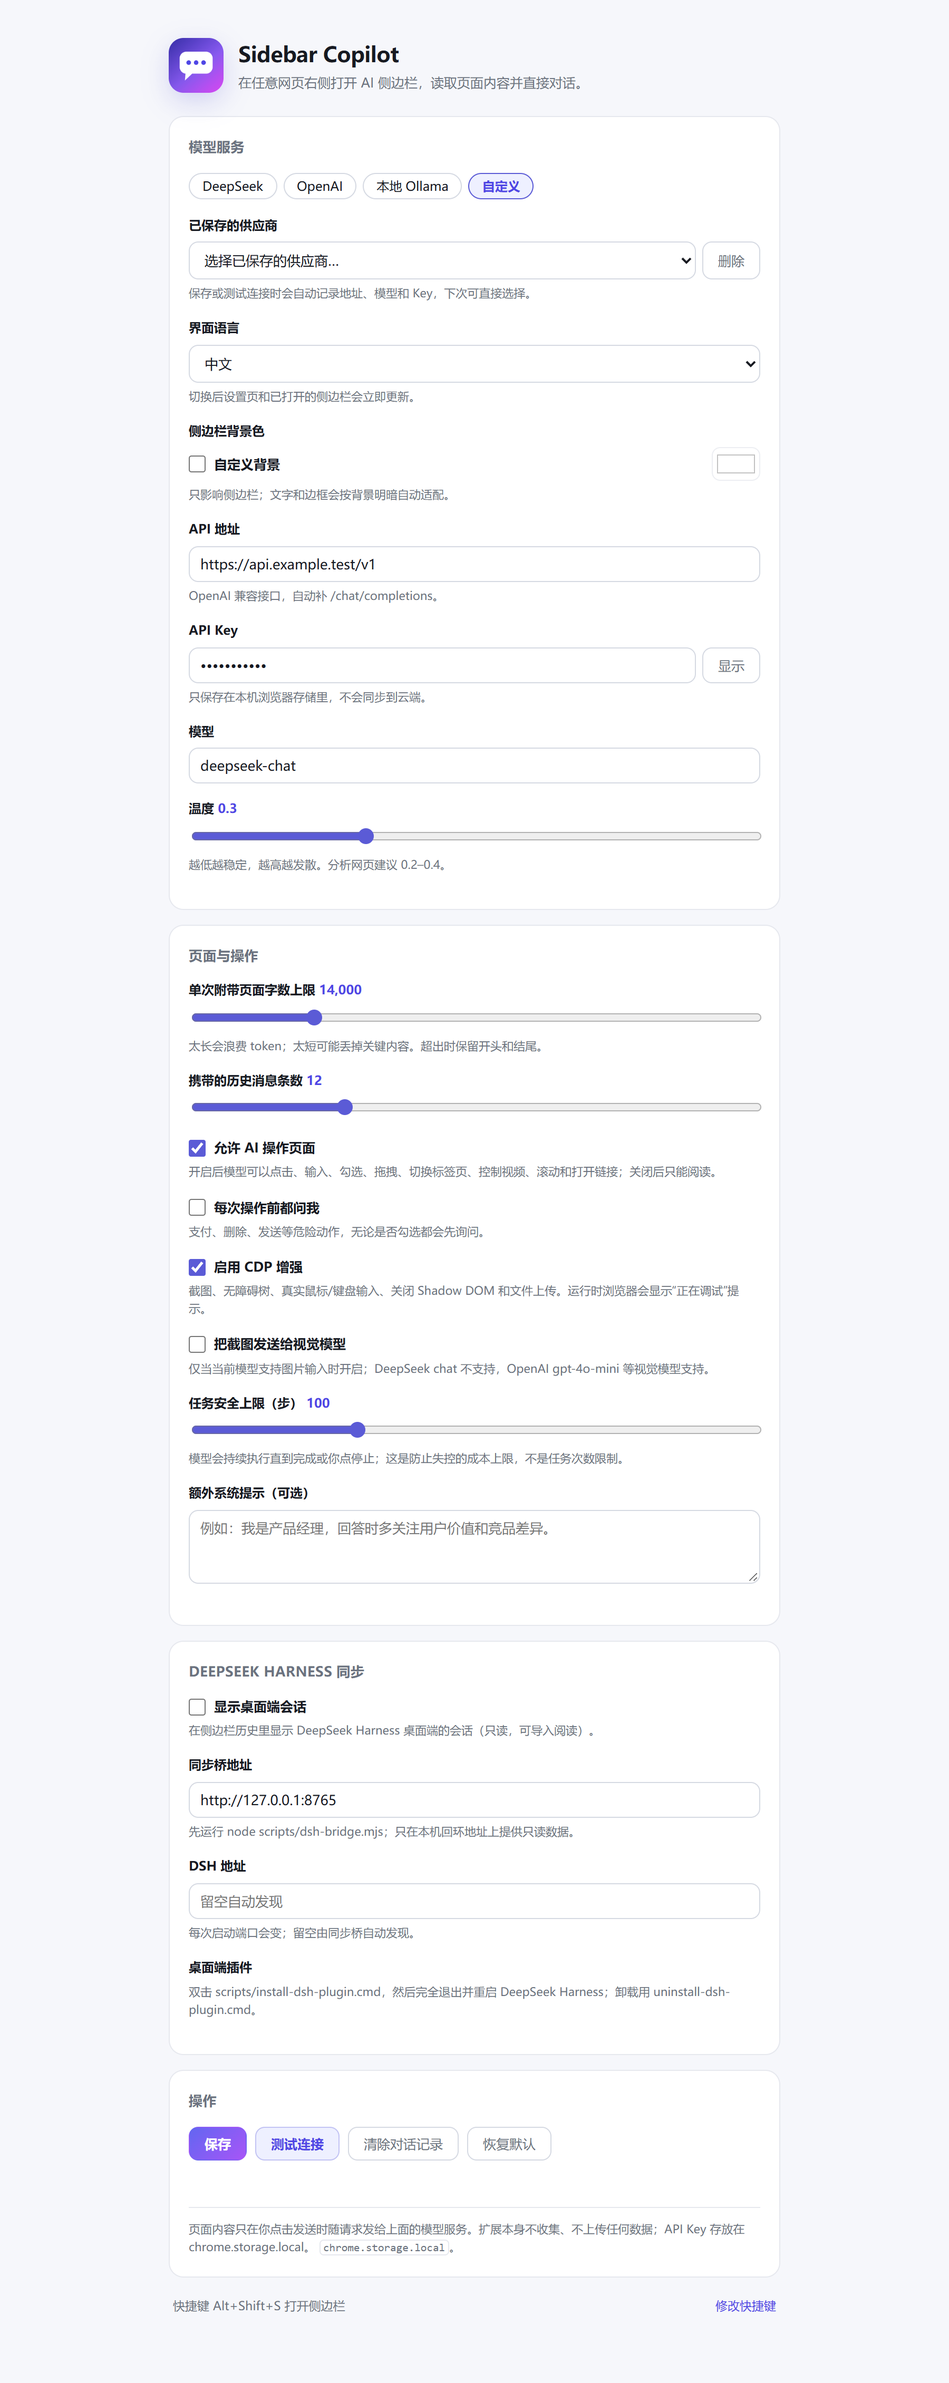
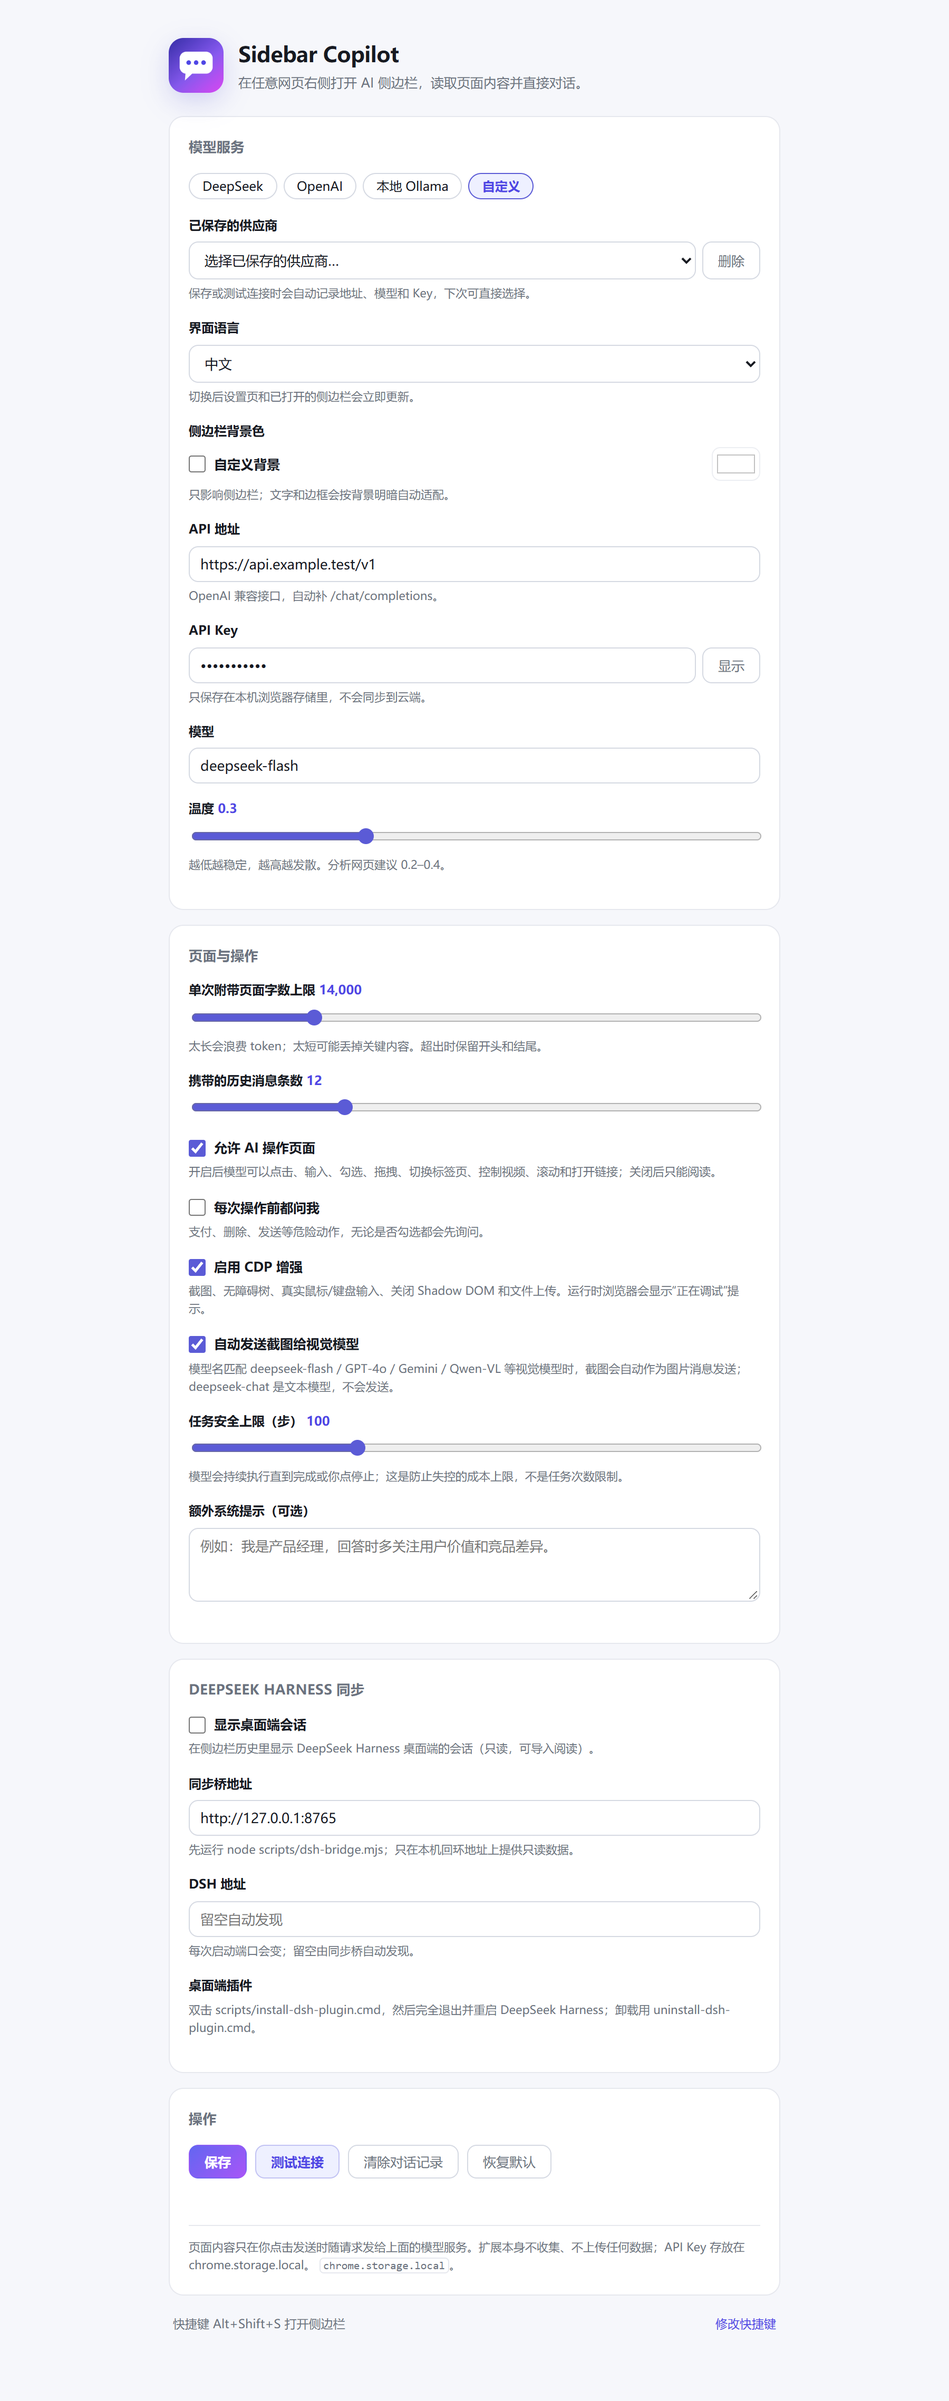
fix: send screenshots to deepseek-flash and vision models automatically

diff --git a/lib/i18n.js b/lib/i18n.js
@@ -152,8 +152,8 @@ const MESSAGES = {
     'options.confirmActionsHint': '支付、删除、发送等危险动作，无论是否勾选都会先询问。',
     'options.useCdp': '启用 CDP 增强',
     'options.useCdpHint': '截图、无障碍树、真实鼠标/键盘输入、关闭 Shadow DOM 和文件上传。运行时浏览器会显示“正在调试”提示。',
-    'options.sendScreenshot': '把截图发送给视觉模型',
-    'options.sendScreenshotHint': '仅当当前模型支持图片输入时开启；DeepSeek chat 不支持，OpenAI gpt-4o-mini 等视觉模型支持。',
+    'options.sendScreenshot': '自动发送截图给视觉模型',
+    'options.sendScreenshotHint': '模型名匹配 deepseek-flash / GPT-4o / Gemini / Qwen-VL 等视觉模型时，截图会自动作为图片消息发送；deepseek-chat 是文本模型，不会发送。',
     'options.maxSteps': '任务安全上限（步）',
     'options.maxStepsHint': '模型会持续执行直到完成或你点停止；这是防止失控的成本上限，不是任务次数限制。',
     'options.extra': '额外系统提示（可选）',
@@ -364,8 +364,8 @@ const MESSAGES = {
     'options.confirmActionsHint': 'Risky actions (pay, delete, send, etc.) always ask, even when this is off.',
     'options.useCdp': 'Enable CDP enhancements',
     'options.useCdpHint': 'Screenshot, accessibility tree, trusted mouse/keyboard input, closed shadow DOM, and file upload. Chromium shows a debugging infobar while active.',
-    'options.sendScreenshot': 'Send screenshots to a vision model',
-    'options.sendScreenshotHint': 'Enable only when the current model accepts image input; DeepSeek chat does not, while OpenAI gpt-4o-mini and other vision models do.',
+    'options.sendScreenshot': 'Send screenshots to vision models automatically',
+    'options.sendScreenshotHint': 'When the model name matches deepseek-flash, GPT-4o, Gemini, Qwen-VL, and similar vision models, the screenshot is sent as an image message. deepseek-chat is text-only and is skipped.',
     'options.maxSteps': 'Task safety cap (steps)',
     'options.maxStepsHint': 'The model keeps working until done or you press Stop; this cap only prevents runaway cost.',
     'options.extra': 'Extra system prompt (optional)',

diff --git a/panel.js b/panel.js
@@ -9,6 +9,7 @@ import { setLocale, applyI18n, t, getLocale } from './lib/i18n.js';
 import { applyPanelTheme } from './lib/theme.js';
 import { getSkill } from './lib/skills.js';
 import { makeRequestId, sameDocument } from './lib/protocol.js';
+import { supportsVision } from './lib/vision.js';
 import * as cdp from './lib/cdp.js';
 
 const $ = (id) => document.getElementById(id);
@@ -926,14 +927,16 @@ async function executeCdpTool(action) {
 
   if (action.name === 'capture_screenshot') {
     const screenshot = await cdp.captureScreenshot(tabId);
-    state.pendingScreenshot = state.settings.sendScreenshot ? screenshot : '';
+    const vision = Boolean(state.settings.sendScreenshot) && supportsVision(state.settings.model);
+    state.pendingScreenshot = vision ? screenshot : '';
     return {
       ok: true,
       screenshot,
       verified: true,
-      note: state.settings.sendScreenshot
+      vision,
+      note: vision
         ? 'Screenshot captured and queued for the next visual-model request.'
-        : 'Screenshot captured for visual inspection; it is shown in the side panel.',
+        : 'Screenshot captured for visual inspection; it is shown in the side panel. Use a vision model (for example deepseek-flash) and enable screenshot sending for visual understanding.',
     };
   }
 

diff --git a/options.html b/options.html
@@ -119,9 +119,9 @@
         <div class="field">
           <label class="check">
             <input id="sendScreenshot" type="checkbox" />
-            <span data-i18n="options.sendScreenshot">把截图发送给视觉模型</span>
+            <span data-i18n="options.sendScreenshot">自动发送截图给视觉模型</span>
           </label>
-          <small data-i18n="options.sendScreenshotHint">仅当当前模型支持图片输入时开启；DeepSeek chat 不支持，OpenAI gpt-4o-mini 等视觉模型支持。</small>
+          <small data-i18n="options.sendScreenshotHint">模型名匹配 deepseek-flash / GPT-4o / Gemini / Qwen-VL 等视觉模型时，截图会自动作为图片消息发送；deepseek-chat 是文本模型，不会发送。</small>
         </div>
 
         <div class="field">

diff --git a/tests/vision.test.js b/tests/vision.test.js
@@ -1,0 +1,19 @@
+import test from 'node:test';
+import assert from 'node:assert/strict';
+
+import { supportsVision } from '../lib/vision.js';
+
+test('detects image-capable model families', () => {
+  assert.equal(supportsVision('deepseek-flash'), true);
+  assert.equal(supportsVision('deepseek-v4-flash-vision-exp'), true);
+  assert.equal(supportsVision('gpt-4o-mini'), true);
+  assert.equal(supportsVision('gemini-2.5-pro'), true);
+  assert.equal(supportsVision('qwen2.5-vl-7b'), true);
+});
+
+test('keeps text-only and unknown models text-only', () => {
+  assert.equal(supportsVision('deepseek-chat'), false);
+  assert.equal(supportsVision('deepseek-reasoner'), false);
+  assert.equal(supportsVision(''), false);
+  assert.equal(supportsVision('my-local-chat'), false);
+});

diff --git a/lib/settings.js b/lib/settings.js
@@ -1,7 +1,7 @@
 export const DEFAULT_SETTINGS = Object.freeze({
   apiBase: 'https://api.deepseek.com/v1',
   apiKey: '',
-  model: 'deepseek-chat',
+  model: 'deepseek-flash',
   temperature: 0.3,
   maxPageChars: 14000,
   historyLimit: 12,
@@ -10,7 +10,7 @@ export const DEFAULT_SETTINGS = Object.freeze({
   allowPageActions: true,
   confirmActions: false,
   useCdp: true,
-  sendScreenshot: false,
+  sendScreenshot: true,
   maxAgentSteps: 100,
   locale: 'auto',
   panelBg: '',
@@ -26,7 +26,7 @@ export const PRESETS = [
     id: 'deepseek',
     label: 'DeepSeek',
     apiBase: 'https://api.deepseek.com/v1',
-    model: 'deepseek-chat',
+    model: 'deepseek-flash',
     keyUrl: 'https://platform.deepseek.com/api_keys',
   },
   {

diff --git a/lib/vision.js b/lib/vision.js
@@ -1,0 +1,25 @@
+/**
+ * Known image-capable model families for OpenAI-compatible endpoints.
+ * This is a convenience heuristic, not a provider capability API: a proxy can
+ * still reject images even when its model name looks multimodal.
+ */
+const VISION_PATTERNS = [
+  /deepseek-flash/i,
+  /deepseek.*vision/i,
+  /deepseek.*vl/i,
+  /gpt-4o/i,
+  /gpt-4\.1/i,
+  /gpt-5/i,
+  /claude-(3|4)/i,
+  /gemini/i,
+  /qwen.*vl/i,
+  /qwen.*vision/i,
+  /llava/i,
+  /vision/i,
+];
+
+export function supportsVision(model) {
+  const name = String(model || '').trim();
+  if (!name) return false;
+  return VISION_PATTERNS.some((pattern) => pattern.test(name));
+}

diff --git a/options.js b/options.js
@@ -74,7 +74,7 @@ function fillForm(values) {
   el.allowPageActions.checked = values.allowPageActions !== false;
   el.confirmActions.checked = Boolean(values.confirmActions);
   el.useCdp.checked = values.useCdp !== false;
-  el.sendScreenshot.checked = Boolean(values.sendScreenshot);
+  el.sendScreenshot.checked = values.sendScreenshot !== false;
   el.maxAgentSteps.value = String(values.maxAgentSteps ?? 100);
   el.maxStepsLabel.textContent = String(values.maxAgentSteps ?? 100);
   el.dshSync.checked = Boolean(values.dshSync);

diff --git a/tests/settings.test.js b/tests/settings.test.js
@@ -6,4 +6,6 @@ import { DEFAULT_SETTINGS } from '../lib/settings.js';
 test('defaults to a long task with a safety cap', () => {
   assert.equal(DEFAULT_SETTINGS.maxAgentSteps, 100);
   assert.equal(DEFAULT_SETTINGS.allowPageActions, true);
+  assert.equal(DEFAULT_SETTINGS.model, 'deepseek-flash');
+  assert.equal(DEFAULT_SETTINGS.sendScreenshot, true);
 });

diff --git a/content.js b/content.js
@@ -5,7 +5,7 @@
 (() => {
   'use strict';
 
-  const VERSION = '2.1.1';
+  const VERSION = '2.1.2';
   if (window.__SC_EXTRACT__ && window.__SC_EXTRACT_VERSION__ === VERSION) return;
   window.__SC_EXTRACT_VERSION__ = VERSION;
 

diff --git a/README.en.md b/README.en.md
@@ -17,7 +17,7 @@ An Edge / Chrome side panel extension that opens an AI chat panel beside any web
 - **Continuous tasks and skills**: no six-step stop; the model keeps going until done or you press Stop, with form / media / extract / navigate / verify / inspect playbooks.
 - **Verified actions**: input, select, range, media, and scroll read the state back; results are Done / Uncertain / Failed and bound to `tabId + documentId + snapshotId`.
 - **Optional CDP enhancements**: `chrome.debugger` provides screenshots, the full accessibility tree, trusted mouse/keyboard input, closed-shadow node clicks, and file inputs from absolute paths.
-- **Optional vision**: with “Send screenshots to a vision model” enabled, `capture_screenshot` attaches the image to the next request; DeepSeek chat does not accept images, while OpenAI gpt-4o-mini and other vision models do.
+- **Optional vision**: with “Send screenshots to vision models automatically” enabled, `capture_screenshot` attaches the image to the next request when the model is image-capable. DeepSeek `deepseek-flash` accepts images; `deepseek-chat` is text-only. See the [DeepSeek vision guide](https://api-docs.deepseek.com/guides/vision/).
 - **Two-way desktop sync**: list DeepSeek Harness sessions read-only; after installing the desktop plugin, write extension conversations as real DSH sessions visible on both sides.
 - **Conversation history**: every new chat is kept. The clock button lists them; switch, delete, or export to JSON on your computer. Auto-save can be turned off.
 - **Remembered providers**: saving or testing a connection remembers its URL, model, and key for the “Saved providers” dropdown; “Reset to defaults” never deletes your key.
@@ -54,7 +54,7 @@ Open Settings (the welcome page button, or right-click the extension icon → Op
 
 | Preset | API base | Default model | Key |
 | --- | --- | --- | --- |
-| DeepSeek | `https://api.deepseek.com/v1` | `deepseek-chat` | [platform.deepseek.com/api_keys](https://platform.deepseek.com/api_keys) |
+| DeepSeek | `https://api.deepseek.com/v1` | `deepseek-flash` | [platform.deepseek.com/api_keys](https://platform.deepseek.com/api_keys) |
 | OpenAI | `https://api.openai.com/v1` | `gpt-4o-mini` | [platform.openai.com/api-keys](https://platform.openai.com/api-keys) |
 | Local Ollama | `http://localhost:11434/v1` | `qwen2.5:7b` | not required |
 
@@ -161,7 +161,7 @@ With actions enabled, the model doesn't just tell you what to click — it execu
 | `hover` | Hovers to open menus or tooltips |
 | `tab_control` | Lists, opens, activates, reloads, goes back/forward, or closes tabs; closing the panel’s own tab is refused |
 | `skill` | Loads a playbook for form / media / extract / navigate / verify / inspect |
-| `capture_screenshot` | Captures the visible tab over CDP and shows it in the panel; optionally sends it to a vision model |
+| `capture_screenshot` | Captures the visible tab over CDP and shows it in the panel; vision models receive the image automatically |
 | `inspect_ax` | Reads the accessibility tree (iframes and closed shadow DOM included) and returns `backend_node_id` |
 | `cdp_click` / `cdp_type` / `cdp_key` | Trusted CDP mouse, text, and key input for controls that ignore synthetic events |
 | `cdp_upload` | Sets a file input from absolute paths you provide and confirm |
@@ -176,7 +176,7 @@ The current page is bound to `tabId + documentId + snapshotId`; after navigation
 
 When a task matches, the model calls `skill` for a step-by-step playbook (forms, media, extraction, tab navigation, verification, inspection); these are instructions, not hard-coded scripts.
 
-> Actions require function calling. DeepSeek `deepseek-chat` and OpenAI `gpt-4o-mini` support it; models without tool support only produce text suggestions.
+> Actions require function calling. DeepSeek `deepseek-flash` / `deepseek-chat` and OpenAI `gpt-4o-mini` support it; models without tool support only produce text suggestions.
 
 ![AI operating the page](docs/screenshots/panel-actions.png)
 
@@ -226,7 +226,7 @@ It returns real state (currentTime, duration, paused, volume, readyState), plus 
 - Custom dropdowns (`role=combobox`) take two steps (“click, then click the option”); native `<select>` works in one.
 - `ref`s expire when the page re-renders or navigates; the model re-runs `inspect_page`.
 - CDP enhancements must be enabled in Settings; Chromium shows a “started debugging” infobar while attached. Cross-origin iframes are supported at the accessibility-tree/coordinate level, not every iframe DOM query; file upload needs absolute paths.
-- To let the model see the screenshot, use a vision-capable model and enable “Send screenshots to a vision model”; DeepSeek chat is not a vision model.
+- To let the model see the screenshot, use an image-capable model (DeepSeek `deepseek-flash`, OpenAI gpt-4o, etc.) and keep “Send screenshots to vision models automatically” on; `deepseek-chat` is text-only.
 - Browser chrome (address bar, extension manager, PDF viewer) still cannot be operated; that is a Chromium permission boundary that CDP does not bypass.
 
 ## How it works
@@ -330,7 +330,7 @@ sidebar-copilot/
 
 **The model says it cannot read the page**: it's an internal page/PDF, or injection is blocked; try a regular page.
 
-**On a new tab it says “I have no browser control”**: `edge://newtab` is a browser-internal page that no extension can inject into. Open a real page (http/https) and refresh once; if it still happens, make sure the extension was reloaded to v2.1.1.
+**On a new tab it says “I have no browser control”**: `edge://newtab` is a browser-internal page that no extension can inject into. Open a real page (http/https) and refresh once; if it still happens, make sure the extension was reloaded to v2.1.2.
 
 **It can't see the video**: it truly cannot see pixels, but `control_media` can play/pause/seek/volume, and it can open captions, notes, or AI-summary panels and read the text. Describing the picture requires an image-capable model.
 

diff --git a/README.md b/README.md
@@ -17,7 +17,7 @@
 - **持续任务与技能**：不再 6 步就停，模型持续执行到完成或你点停止；内置 form / media / extract / navigate / verify / inspect 分步技能。
 - **动作可验证**：每次输入/选择/滑块/媒体/滚动都会读回实际状态，结果标为「完成 / 待确认 / 失败」；目标绑定 `tabId + documentId + snapshotId`。
 - **CDP 增强（可选）**：`chrome.debugger` 提供截图、完整无障碍树、真实鼠标/键盘输入、关闭 Shadow DOM 节点点击，以及按绝对路径设置文件输入。
-- **视觉截图（可选）**：开启「把截图发送给视觉模型」后，`capture_screenshot` 会把图片作为下一条消息发给支持图片输入的模型；DeepSeek chat 不支持，OpenAI gpt-4o-mini 等视觉模型支持。
+- **视觉截图（可选）**：开启「自动发送截图给视觉模型」后，`capture_screenshot` 会把图片作为下一条消息发给支持图片输入的模型。DeepSeek `deepseek-flash` 支持图片，`deepseek-chat` 是文本模型；OpenAI gpt-4o-mini 等也支持。官方说明见 [DeepSeek 图像理解](https://api-docs.deepseek.com/zh-cn/guides/vision/)。
 - **桌面端双向同步**：只读列出 DeepSeek Harness 会话；安装桌面端插件后，可把扩展会话写成 DSH 的合法 session，双向可见。
 - **多会话历史**：每次新对话都会保留，顶部时钟按钮打开列表，可切换、删除或导出为 JSON 存到本地；自动保存可以关掉。
 - **供应商记忆**：保存或测试连接会记住地址、模型和 Key，下次从「已保存的供应商」下拉框直接选；「恢复默认」不会删除 Key。
@@ -54,7 +54,7 @@ Chrome 同理：`chrome://extensions` → 开发者模式 → 加载已解压的
 
 | 预设 | API 地址 | 默认模型 | Key |
 | --- | --- | --- | --- |
-| DeepSeek | `https://api.deepseek.com/v1` | `deepseek-chat` | [platform.deepseek.com/api_keys](https://platform.deepseek.com/api_keys) |
+| DeepSeek | `https://api.deepseek.com/v1` | `deepseek-flash` | [platform.deepseek.com/api_keys](https://platform.deepseek.com/api_keys) |
 | OpenAI | `https://api.openai.com/v1` | `gpt-4o-mini` | [platform.openai.com/api-keys](https://platform.openai.com/api-keys) |
 | 本地 Ollama | `http://localhost:11434/v1` | `qwen2.5:7b` | 不需要 |
 
@@ -161,7 +161,7 @@ node scripts/install-dsh-plugin.mjs --uninstall
 | `hover` | 悬停展开菜单/提示 |
 | `tab_control` | 列出、新建、切换、刷新、前进/后退标签页；关闭当前侧边栏所在标签页会被拒绝 |
 | `skill` | 加载 form / media / extract / navigate / verify / inspect 分步操作手册 |
-| `capture_screenshot` | CDP 截取当前可见画面，侧边栏直接显示图片；开启视觉截图后也会发给支持图片的模型 |
+| `capture_screenshot` | CDP 截取当前可见画面，侧边栏直接显示图片；视觉模型会自动收到图片 |
 | `inspect_ax` | 读取浏览器无障碍树（含 iframe / 关闭 Shadow DOM），返回 `backend_node_id` |
 | `cdp_click` / `cdp_type` / `cdp_key` | 用 CDP 发真实鼠标、文本、按键；适合 DOM 合成事件无效的控件 |
 | `cdp_upload` | 用绝对路径设置文件输入；需要你提供路径并在确认框里允许 |
@@ -176,7 +176,7 @@ node scripts/install-dsh-plugin.mjs --uninstall
 
 任务匹配时会先调用 `skill` 获取分步手册，例如填表、媒体控制、页面提取、标签页导航和结果验证；这些技能不是硬编码脚本，仍由模型观察页面后逐步执行。
 
-> 操作能力依赖模型的 function calling。DeepSeek `deepseek-chat`、OpenAI `gpt-4o-mini` 支持；不支持工具的模型只会给文字建议。
+> 操作能力依赖模型的 function calling。DeepSeek `deepseek-flash` / `deepseek-chat`、OpenAI `gpt-4o-mini` 支持；不支持工具的模型只会给文字建议。
 
 ![AI 操作页面](docs/screenshots/panel-actions.png)
 
@@ -226,7 +226,7 @@ node scripts/install-dsh-plugin.mjs --uninstall
 - 自定义下拉框（`role=combobox`）需要模型改用「点击 + 点选项」两步；原生 `<select>` 一步完成。
 - 页面重新渲染后旧 `ref` 会失效，模型会重新 `inspect_page`。
 - CDP 增强需要在设置里开启；首次附加会显示“正在调试”提示。跨域 iframe 只能做到无障碍树/坐标级操作，不保证所有 iframe DOM 可直接查询；文件上传需要你提供绝对路径。
-- 模型要“直接看图”，必须使用支持图片输入的模型，并在设置里开启「把截图发送给视觉模型」；DeepSeek chat 不是视觉模型。
+- 模型要“直接看图”，使用支持图片输入的模型（DeepSeek `deepseek-flash`、OpenAI gpt-4o 等），并保持「自动发送截图给视觉模型」开启；`deepseek-chat` 不是视觉模型。
 - 浏览器地址栏、扩展管理页、PDF 阅读器等浏览器 UI 仍无法操作；这是 Chromium 的权限边界，CDP 也不能绕过。
 
 ## 工作原理
@@ -330,7 +330,7 @@ sidebar-copilot/
 
 **模型说读不到页面**：当前页是浏览器内部页/PDF，或注入被站点拦截；换普通网页再试。
 
-**在新建标签页上它说“我没有控制权”**：`edge://newtab` 属于浏览器内部页面，任何扩展都无法注入。先打开真实网页（http/https），必要时刷新一次；如果还不行，确认扩展已重新加载到 v2.1.1。
+**在新建标签页上它说“我没有控制权”**：`edge://newtab` 属于浏览器内部页面，任何扩展都无法注入。先打开真实网页（http/https），必要时刷新一次；如果还不行，确认扩展已重新加载到 v2.1.2。
 
 **视频读不到画面**：它确实看不到视频像素，但可以 `control_media` 播放/暂停/跳进度/调音量，也可以点开字幕、笔记、AI 总结面板再读文本。要让它直接描述画面，需要支持图片输入的模型。
 
